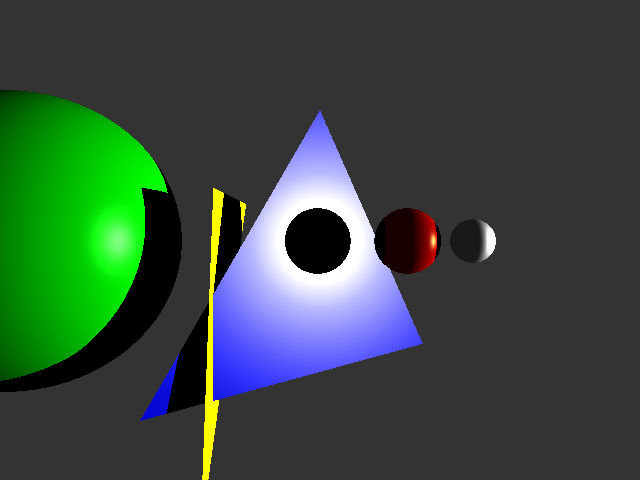
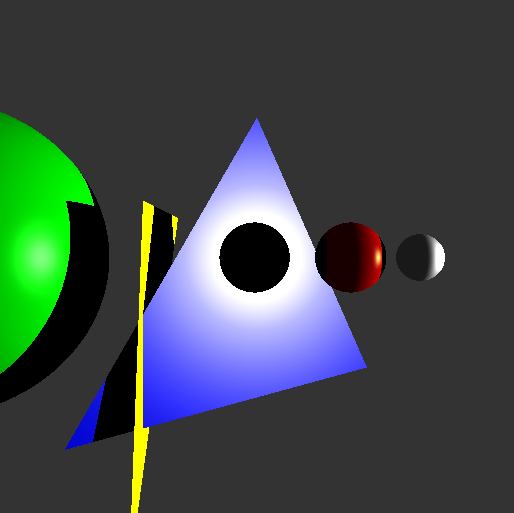
i think it's close enough, we'll see though

Changed region(s): [[0.0, 0.1875, 0.5292, 1.0], [0.5292, 0.3125, 0.8716, 0.7812], [0.4669, 0.5625, 0.4981, 0.5938]]

diff --git a/src/main/Main.java b/src/main/Main.java
@@ -15,8 +15,8 @@ public class Main {
 	static final Color green = new Color(0, 1, 0);
 	static final Color yellow = new Color(1, 1, 0);
 	static final Color red = new Color(1, 0, 0);
-	static final int width = 640;
-	static final int height = 480;
+	static final int width = 514;
+	static final int height = 513;
 	static final String imageName = "scene.png";
 
 	public static void main(String[] args) {
@@ -86,21 +86,6 @@ public class Main {
 			sceneObjects.add(sceneTriangle1);
 			sceneObjects.add(sceneTriangle2);
 
-		} else if (type.equals("tutorial")) {
-			Y = new Vector3D(0, 1, 0);
-			ambientLight = .2;
-			cameraPosition = new Vector3D(3, 1.5, -4);
-			lookAt = new Vector3D(0, 0, 0);
-			Vector3D lightPosition = new Vector3D(-7, 10, -10);
-			lightSource = new Light(lightPosition, white);
-			Sphere sceneSphere1 = new Sphere(new Vector3D(0, 0, 0), 1, green);
-			Triangle sceneTriangle1 = new Triangle(new Vector3D(3, 0, 0), new Vector3D(0, 3, 0), new Vector3D(0, 0, 3),
-					blue);
-			Triangle sceneTriangle2 = new Triangle(new Vector3D(-2, 0, 0), new Vector3D(-5, 3, 0),
-					new Vector3D(-5, 0, 3), blue);
-			sceneObjects.add(sceneSphere1);
-			sceneObjects.add(sceneTriangle1);
-			sceneObjects.add(sceneTriangle2);
 		}
 		double aspectratio = (double) width / (double) height;
 
@@ -112,7 +97,6 @@ public class Main {
 		Vector3D cameraDown = new Vector3D(cameraRight.cross(cameraDirection));
 		Camera sceneCamera = new Camera(cameraPosition, cameraDirection, cameraRight, cameraDown);
 		double xAmount, yAmount;
-
 		for (int y = 0; y < height; y++) {
 			for (int x = 0; x < width; x++) {
 
@@ -121,7 +105,6 @@ public class Main {
 				Vector3D cameraRayOrigin = sceneCamera.getPosition();
 				Vector3D cameraRayDirection = cameraDirection
 						.add(cameraRight.multiply(xAmount - 0.5).add(cameraDown.multiply(yAmount - 0.5))).normalize();
-
 				Ray cameraRay = new Ray(cameraRayOrigin, cameraRayDirection);
 				List<Double> intersections = new ArrayList<>();
 
